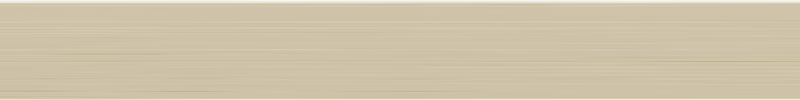
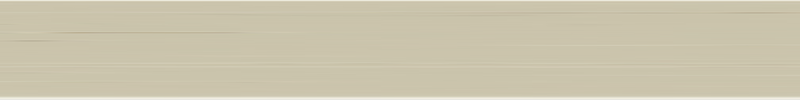
Update moulding images (ECON_0039, ECON_0040, ECON_0041, ECON_0042) and regenerate textures

Changed region(s): [[0.0, 0.96, 1.0, 0.99], [0.0, 0.0, 1.0, 0.03]]

diff --git a/configurator/src/newData.js b/configurator/src/newData.js
@@ -347,10 +347,10 @@ export const FRAME_CATALOGUE = [
   { id: 'E094', code: 'ECON/0079', name: '22mm Light Oak Open Grain', colour: 'natural-wood', finish: 'Light Oak', profile: 'Flat', widthMm: 22, heightMm: 22, costPerM: 1.71, hasPhoto: true, tier: 'everyday', image: 'mouldings/ECON_0079.png', faceHex: '#d5a364' },
 
   // ── CREAM (4) ──
-  { id: 'E095', code: 'ECON/0042', name: '15mm Stained Cream',        colour: 'cream', finish: 'Stained',    profile: 'Flat',    widthMm: 15, heightMm: 13, costPerM: 1.15, hasPhoto: true, tier: 'everyday', image: 'mouldings/ECON_0042.jpg', faceHex: '#cabca4' },
-  { id: 'E096', code: 'ECON/0041', name: '20mm Stained Cream',        colour: 'cream', finish: 'Stained',    profile: 'Flat',    widthMm: 20, heightMm: 15, costPerM: 1.57, hasPhoto: true, tier: 'everyday', image: 'mouldings/ECON_0041.jpg', faceHex: '#c4b69e' },
-  { id: 'E097', code: 'ECON/0040', name: '35mm Stained Cream',        colour: 'cream', finish: 'Stained',    profile: 'Flat',    widthMm: 35, heightMm: 15, costPerM: 2.13, hasPhoto: true, tier: 'everyday', image: 'mouldings/ECON_0040.jpg', faceHex: '#cdbfa2' },
-  { id: 'E098', code: 'ECON/0039', name: '38mm Stained Cream',        colour: 'cream', finish: 'Stained',    profile: 'Flat',    widthMm: 38, heightMm: 30, costPerM: 3.81, hasPhoto: true, tier: 'everyday', image: 'mouldings/ECON_0039.jpg', faceHex: '#d4c5a8' },
+  { id: 'E095', code: 'ECON/0042', name: '15mm Stained Cream',        colour: 'cream', finish: 'Stained',    profile: 'Flat',    widthMm: 15, heightMm: 13, costPerM: 1.15, hasPhoto: true, tier: 'everyday', image: 'mouldings/ECON_0042.png', faceHex: '#cabca4' },
+  { id: 'E096', code: 'ECON/0041', name: '20mm Stained Cream',        colour: 'cream', finish: 'Stained',    profile: 'Flat',    widthMm: 20, heightMm: 15, costPerM: 1.57, hasPhoto: true, tier: 'everyday', image: 'mouldings/ECON_0041.png', faceHex: '#c4b69e' },
+  { id: 'E097', code: 'ECON/0040', name: '35mm Stained Cream',        colour: 'cream', finish: 'Stained',    profile: 'Flat',    widthMm: 35, heightMm: 15, costPerM: 2.13, hasPhoto: true, tier: 'everyday', image: 'mouldings/ECON_0040.png', faceHex: '#cdbfa2' },
+  { id: 'E098', code: 'ECON/0039', name: '38mm Stained Cream',        colour: 'cream', finish: 'Stained',    profile: 'Flat',    widthMm: 38, heightMm: 30, costPerM: 3.81, hasPhoto: true, tier: 'everyday', image: 'mouldings/ECON_0039.png', faceHex: '#d4c5a8' },
 
   // ── COLOUR (4) ──
   { id: 'E099', code: 'ECON/0063', name: '35mm Green Painted',        colour: 'colour', finish: 'Painted',   profile: 'Flat',    widthMm: 35, heightMm: 15, costPerM: 2.13, tier: 'everyday', image: 'mouldings/ECON_0063.png', faceHex: '#454b27' },
